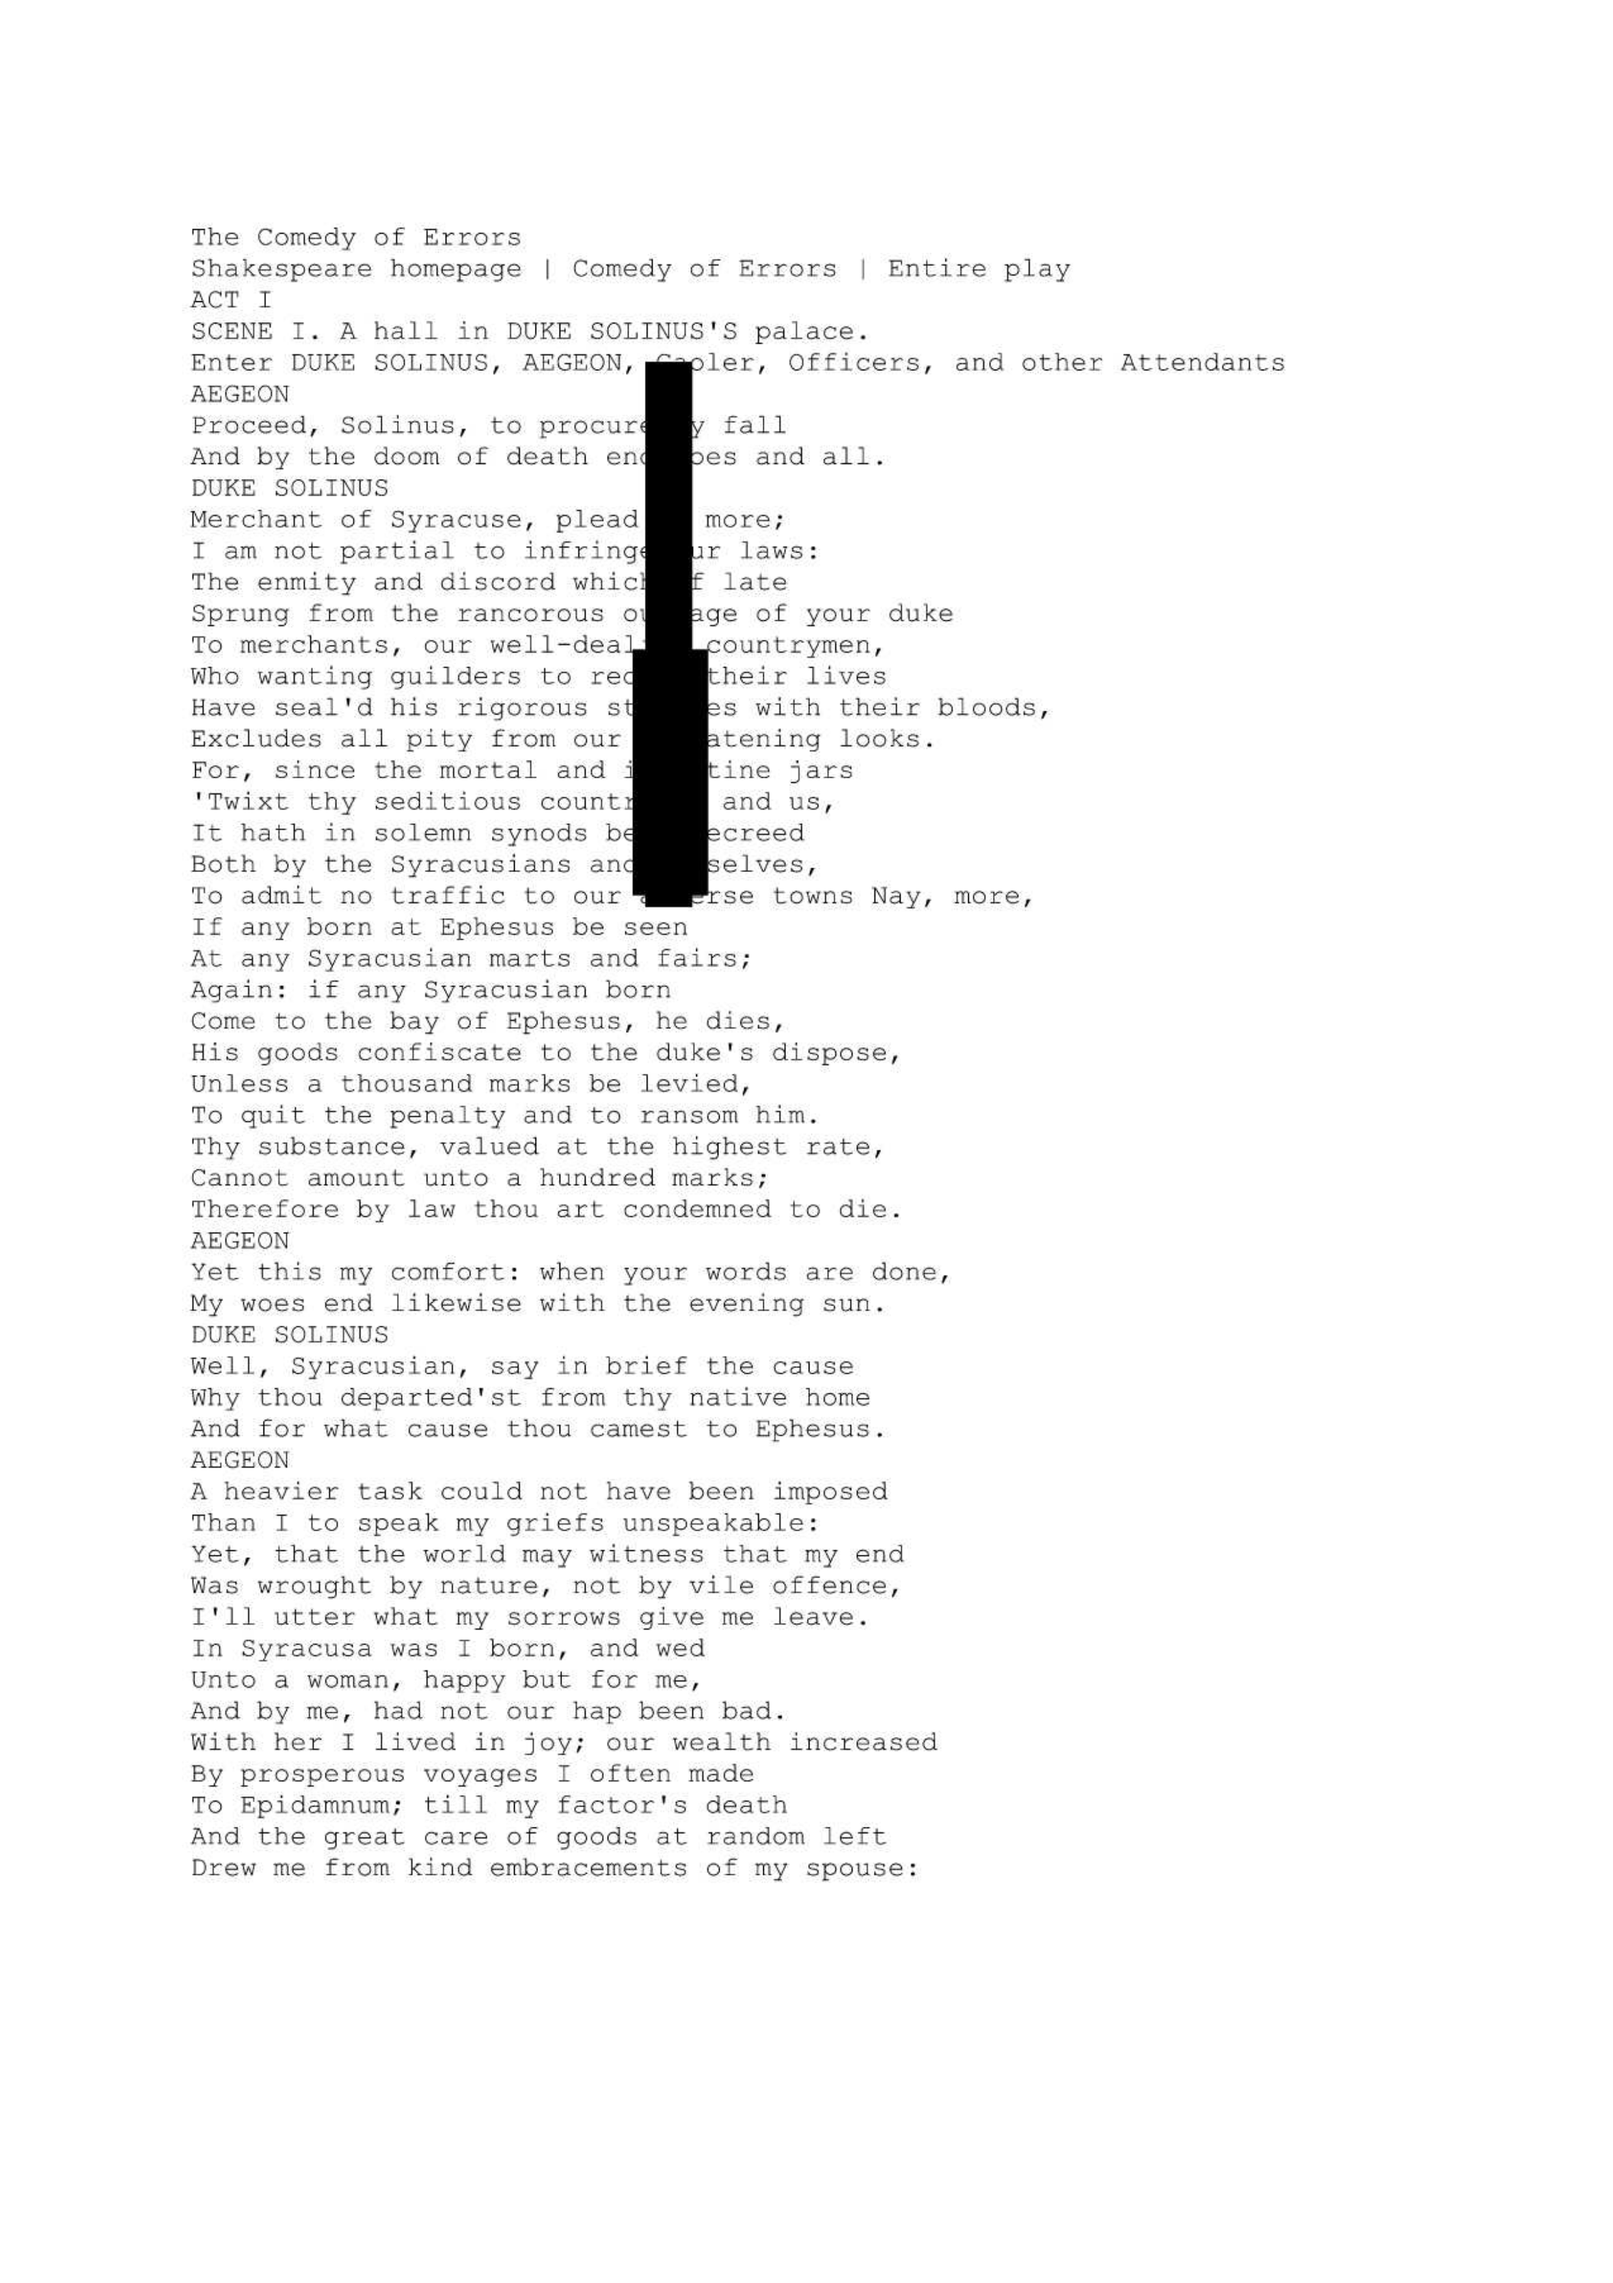
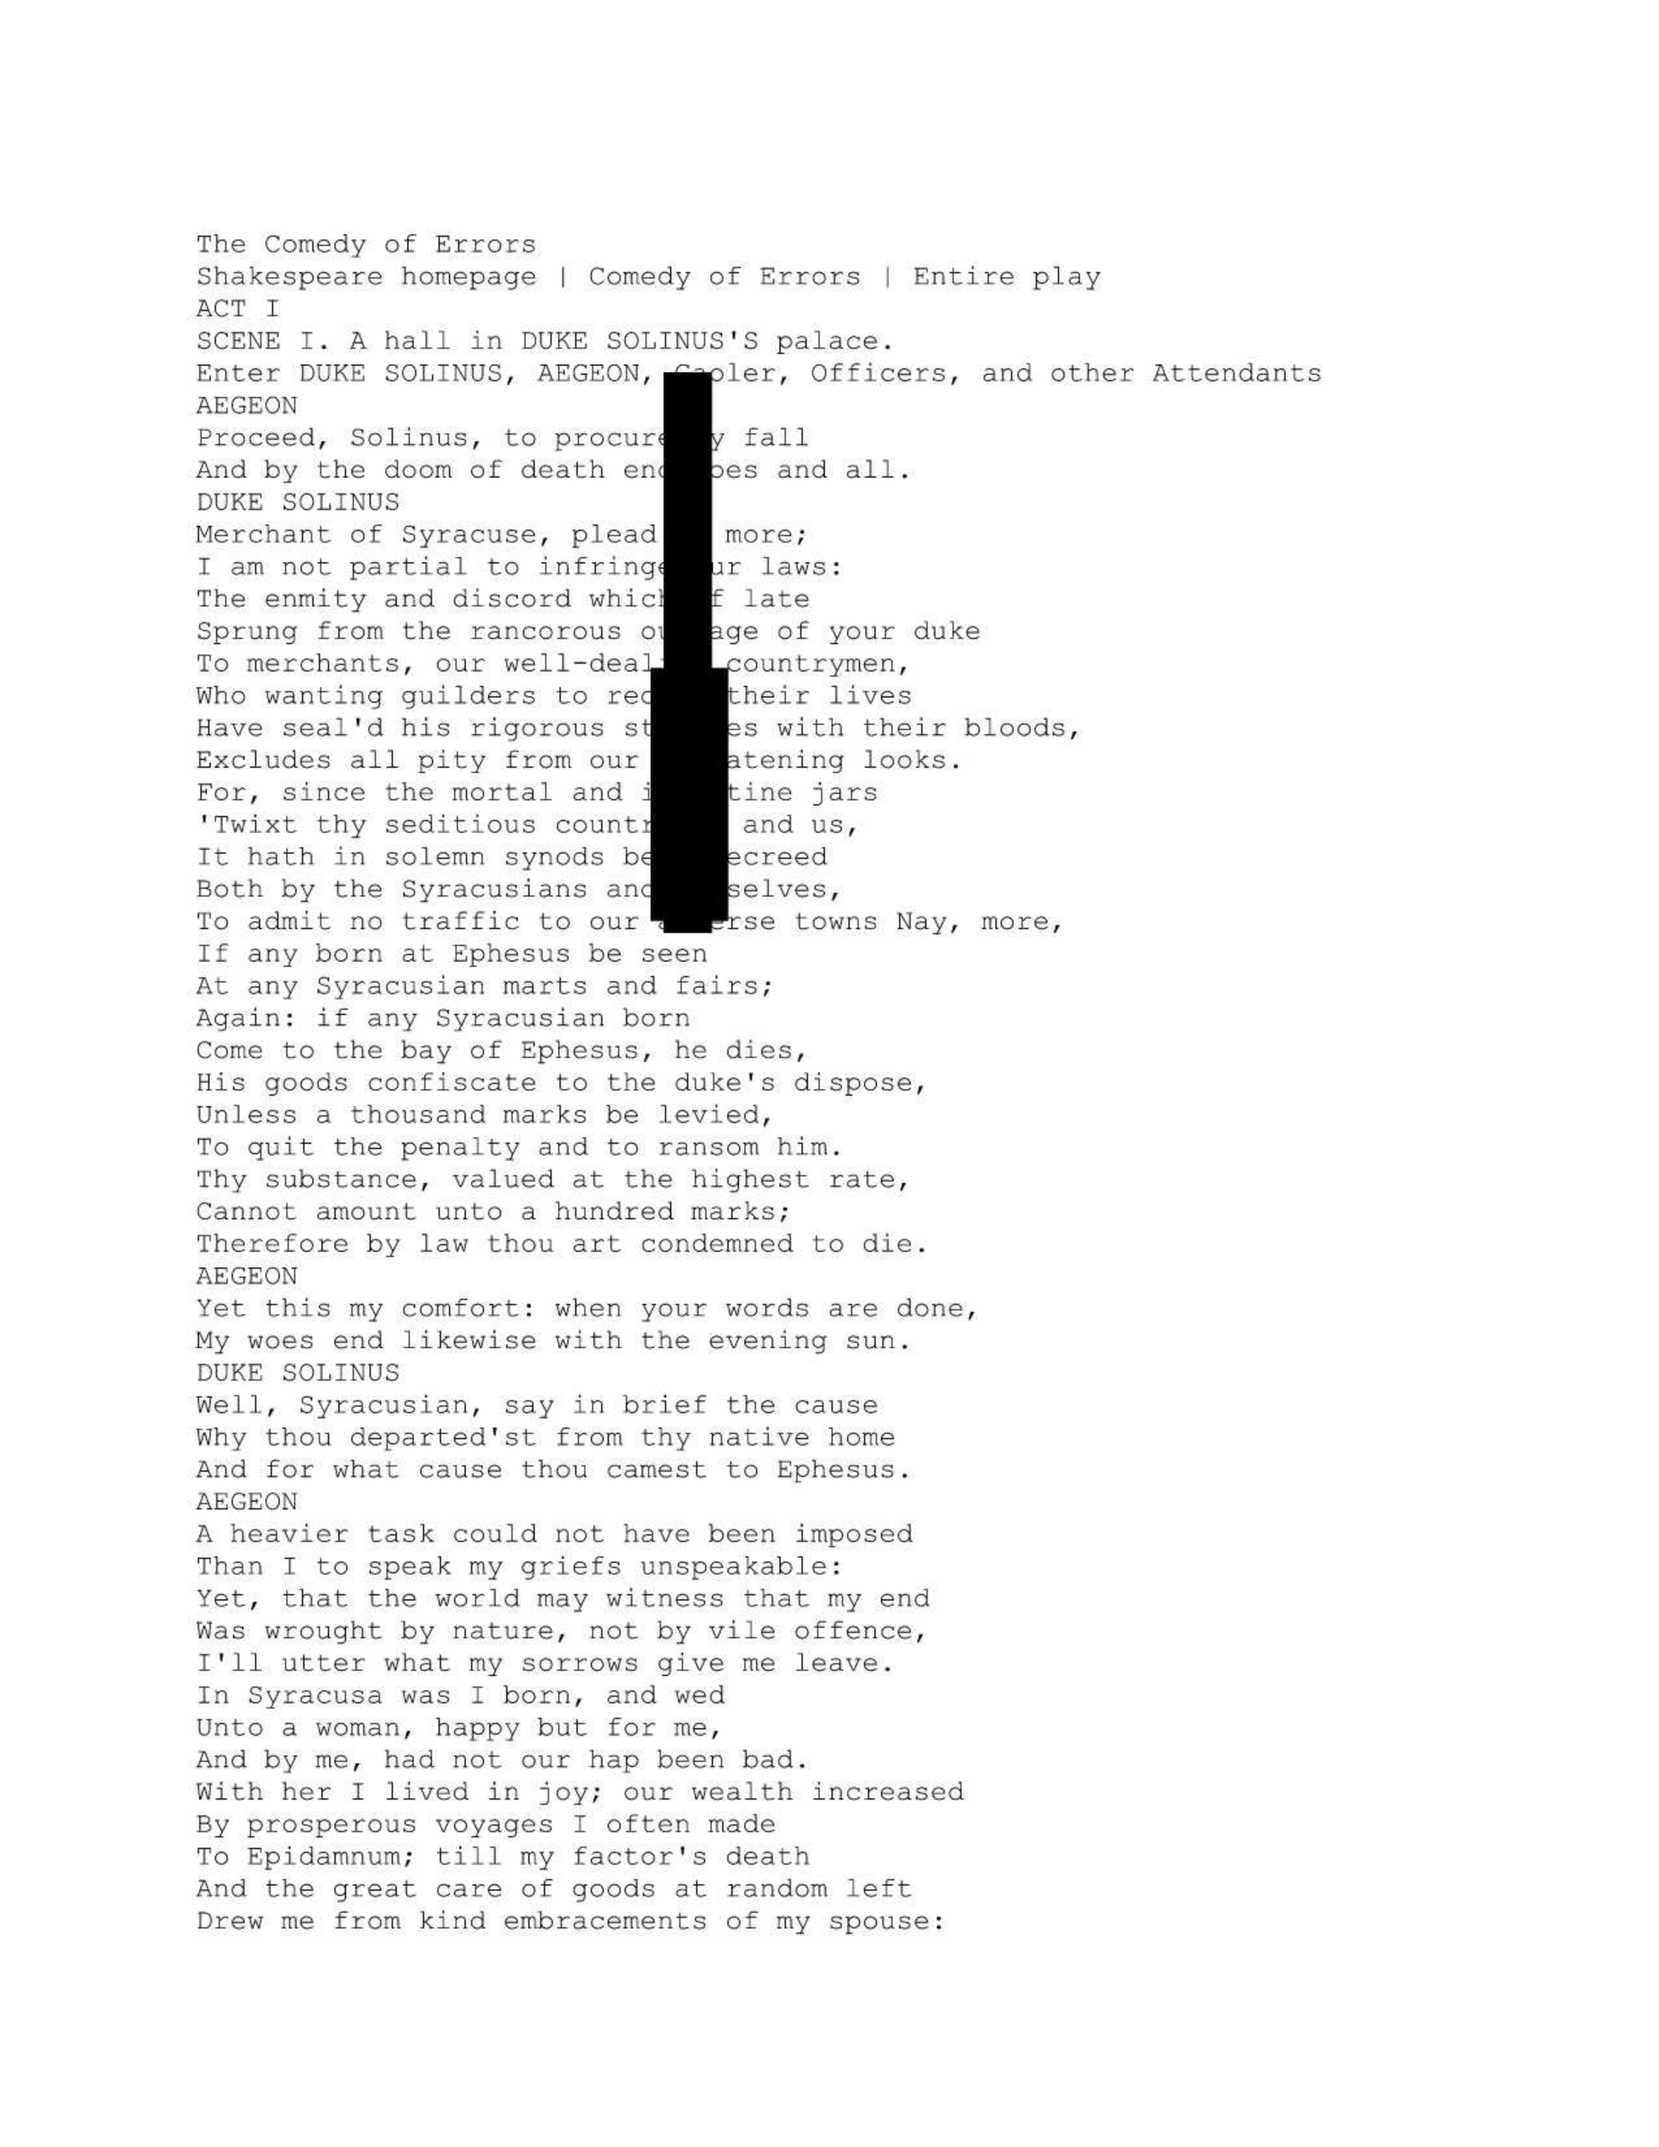
#28091 fix page shrinkable on redaction

Changed region(s): [[0.0932, 0.0936, 0.6523, 0.9052], [0.5902, 0.0936, 0.8076, 0.1873], [0.5902, 0.4058, 0.6212, 0.437]]

diff --git a/polaris-pipeline/pdf-redactor/Services/DocumentRedaction/Aspose/RedactionImplementations/ImageConversionImplementation.cs b/polaris-pipeline/pdf-redactor/Services/DocumentRedaction/Aspose/RedactionImplementations/ImageConversionImplementation.cs
@@ -63,10 +63,6 @@ namespace pdf_redactor.Services.DocumentRedaction.Aspose.RedactionImplementation
                     continue;
                 }
 
-                var pageToSwapOutRect = page.Rect.ToRect();
-                var pageHeight = page.PageInfo.Height;
-                var pageWidth = page.PageInfo.Width;
-
                 // Note: Aspose page.Rect.ToRect() behaves differently to Aspose page.GetPageRect(true)
                 // it switches the height and width for certain pdfs so we need to use GetPageRect(true) instead
                 var pageRect = page.GetPageRect(true);
@@ -82,8 +78,8 @@ namespace pdf_redactor.Services.DocumentRedaction.Aspose.RedactionImplementation
 
                 stopwatch.Restart();
                 var pageToSwapIn = document.Pages.Insert(pageNumber);
-                pageToSwapIn.SetPageSize(pageWidth, pageHeight);
-                pageToSwapIn.Rect = Rectangle.FromRect(pageToSwapOutRect);
+                pageToSwapIn.SetPageSize(pageRect.Width, pageRect.Height);
+                pageToSwapIn.Rect = pageRect;
 
                 pageToSwapIn.PageInfo.Margin.Bottom =
                     pageToSwapIn.PageInfo.Margin.Top =
